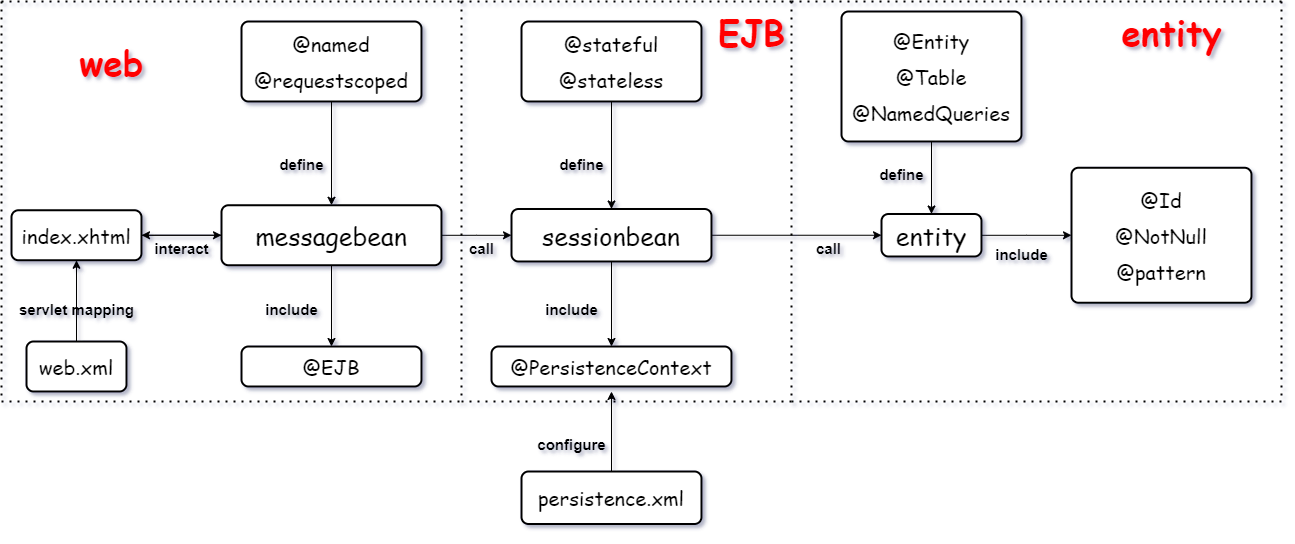
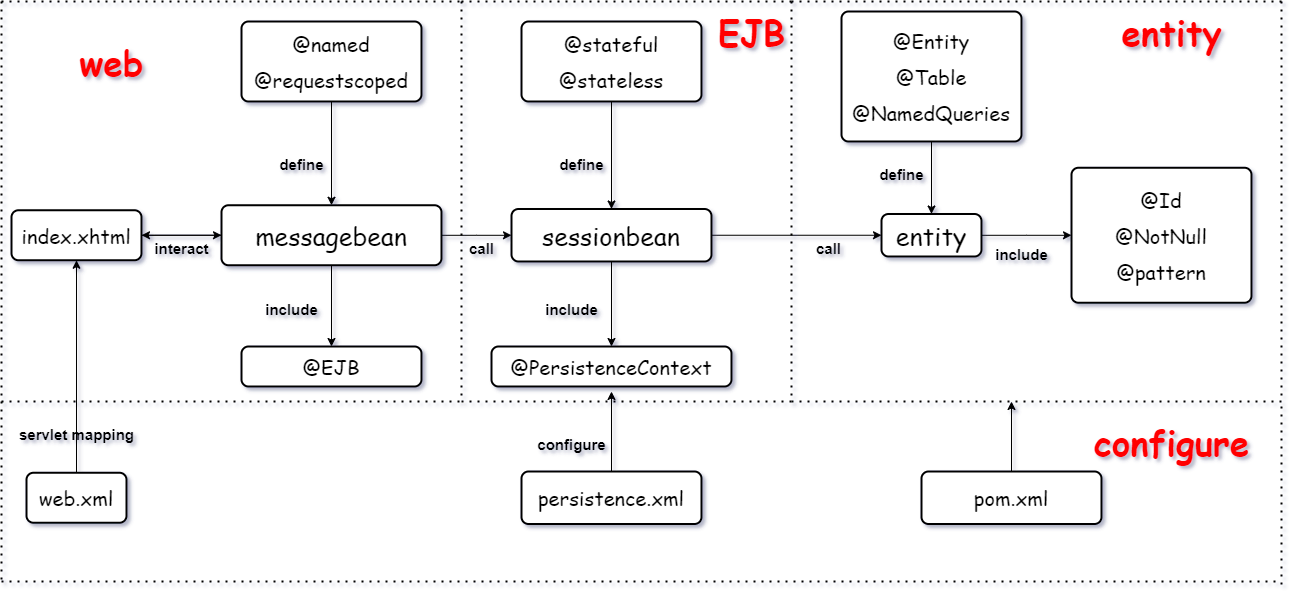
update

diff --git a/README.md b/README.md
@@ -3,12 +3,13 @@
 ### 项目文档
 
 ##### 项目建模
-[需求文档]()
+[需求文档](doc/tutorial/需求分析.md)
 
 [数据库建模]()
 
 [前端原型]()
 
+###### 项目架构
 ![项目架构](./doc/images/jave-ee-architect.png)
 
 ##### 参考文档
@@ -27,3 +28,8 @@ persistence.xml 数据库配置
 glassfish-{web/resources}.xml 服务器资源配置
 
 faces-config.xml JSF配置
+
+##### 项目日志
+- 09/06/2020
+
+分析项目需求，完成项目架构、数据库建模、前端原型
